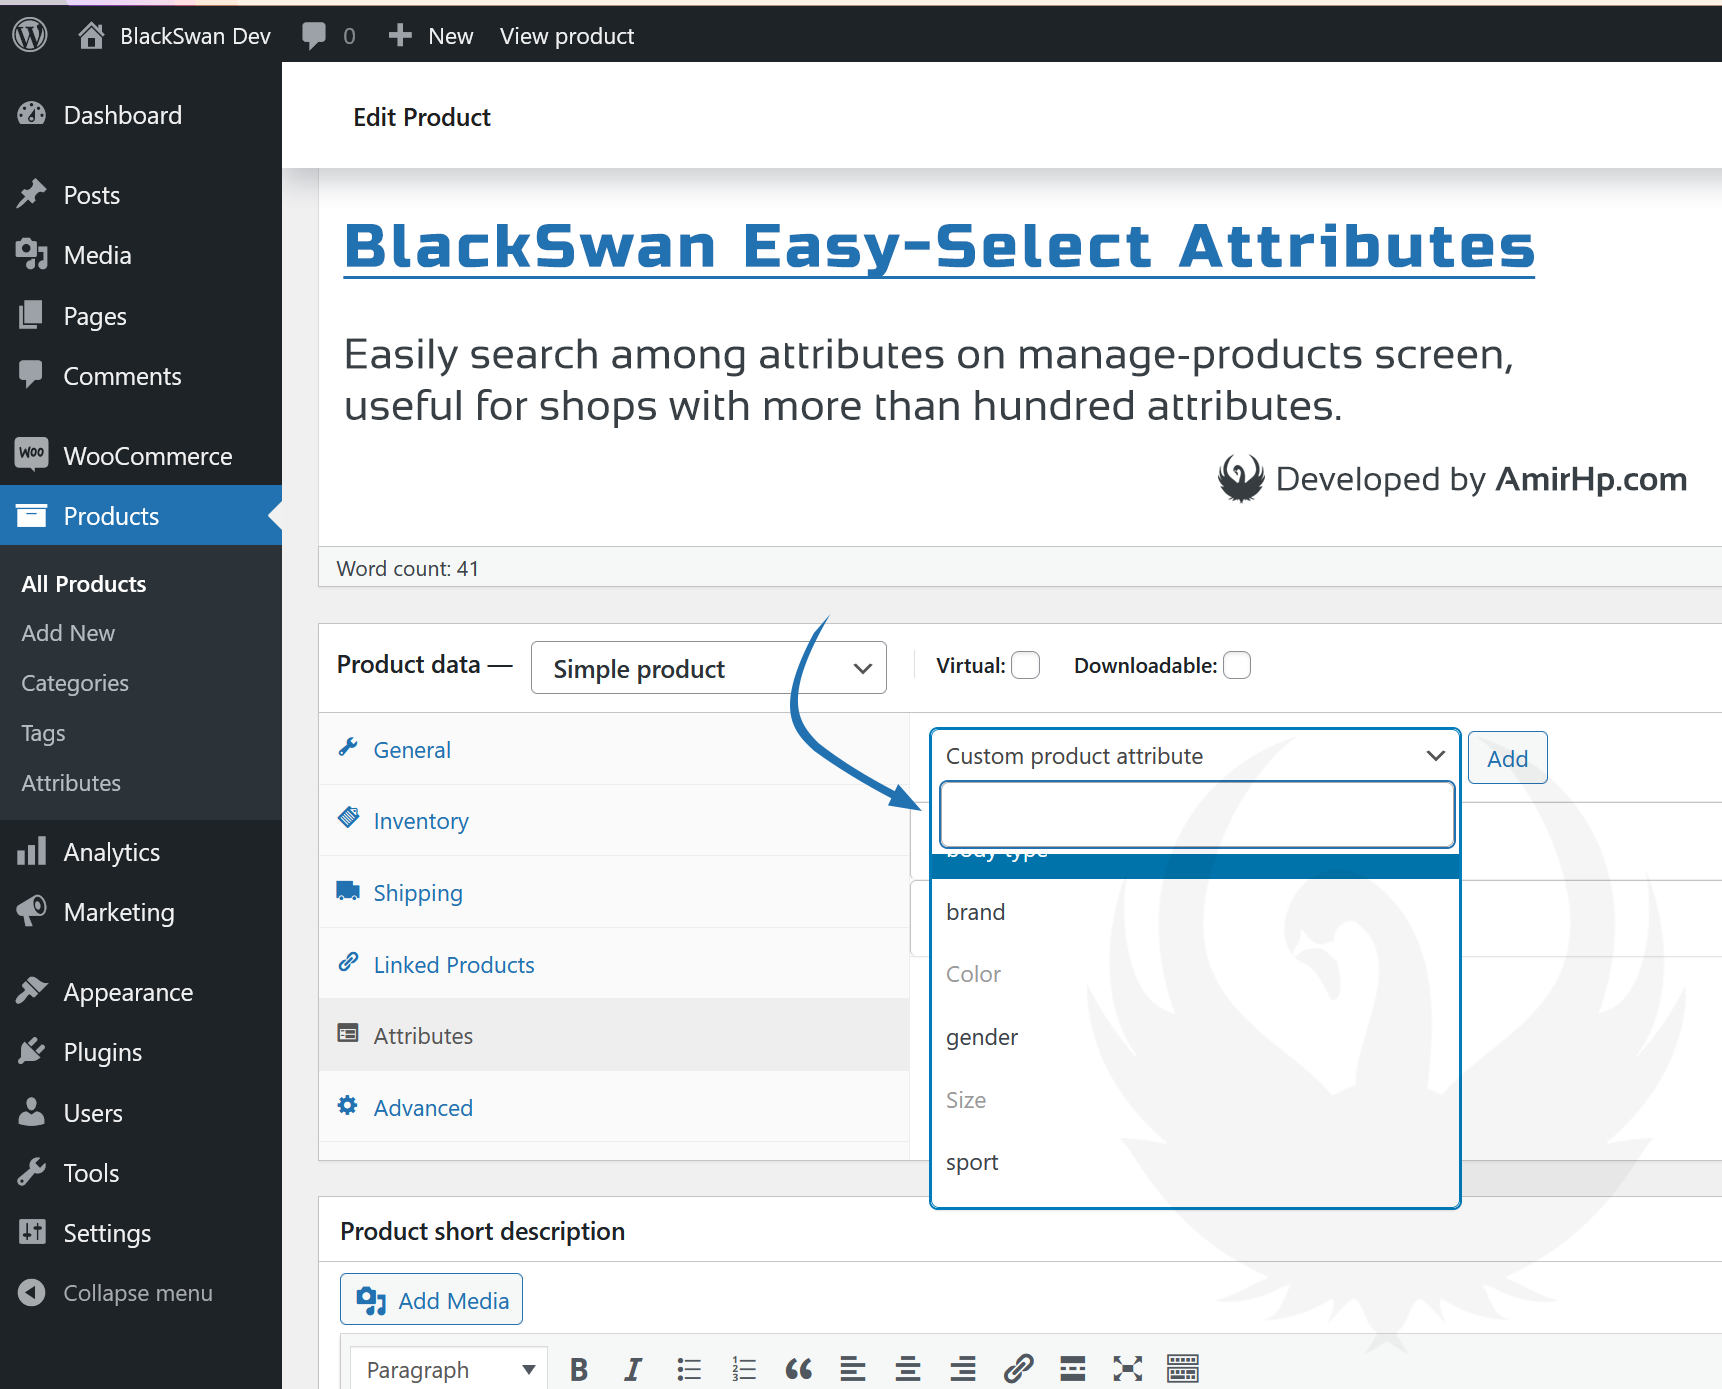
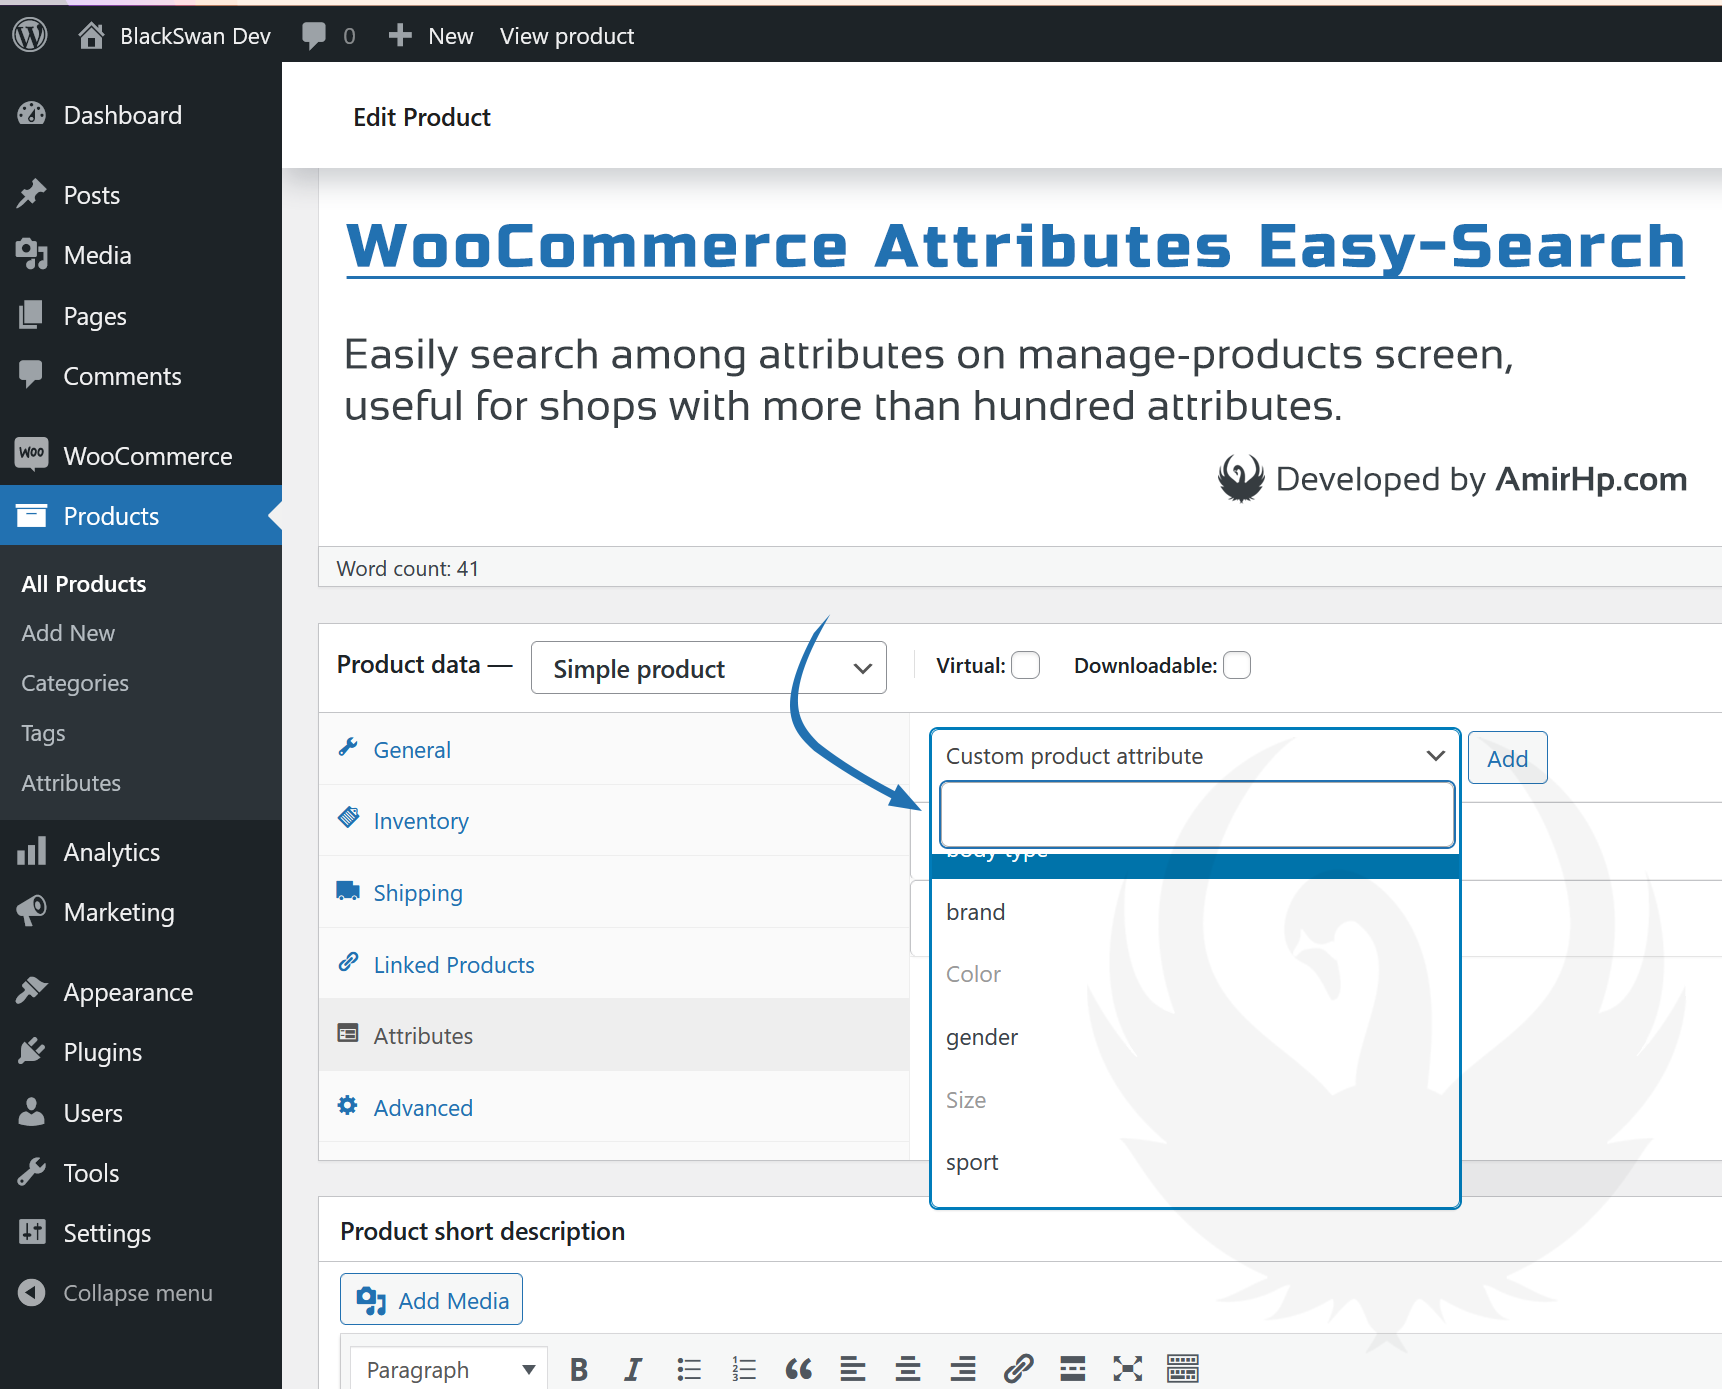
v.1 released

Changed region(s): [[0.1847, 0.1548, 0.9849, 0.2167]]

diff --git a/blackswan-easy-select-attributes.js b/blackswan-easy-select-attributes.js
@@ -2,12 +2,12 @@ jQuery.noConflict();
 (function($) {
   $(function() {
     const consloe = "color:cyan; background: #fff linear-gradient(to right, violet, cyan, lightgreen, yellow, orange, red); -webkit-background-clip: text; color: transparent;";
-    setTimeout(console.log.bind(console, `%cInitiating WooCommerce Attributes Easy-Search [developed by https://amirhp.com ]`, consloe));
+    setTimeout(console.log.bind(console, `%cInitiating BlackSwan Easy-Select Attributes for WooCommerce [developed by https://amirhp.com ]`, consloe));
     $("select.attribute_taxonomy[name=attribute_taxonomy]").selectWoo({width: '300px'}).addClass('enhanced');
     $(".product_attributes").on("click tap", ".remove_row", function () { initEasySearch(); });
     $(document.body).on("woocommerce_added_attribute", function(e){ initEasySearch(); });
     function initEasySearch() {
-      setTimeout(console.log.bind(console, `%cRe-initiating WooCommerce Attributes Easy-Search [developed by https://amirhp.com ]`, consloe));
+      setTimeout(console.log.bind(console, `%cRe-initiating BlackSwan Easy-Select Attributes for WooCommerce [developed by https://amirhp.com ]`, consloe));
       try { $("select.attribute_taxonomy[name=attribute_taxonomy]").selectWoo("destroy"); } catch (e) { }
       finally { $("select.attribute_taxonomy[name=attribute_taxonomy]").selectWoo({width: '300px'}).addClass('enhanced'); }
     }

diff --git a/blackswan-easy-select-attributes.php b/blackswan-easy-select-attributes.php
@@ -15,7 +15,7 @@ Tested up to: 6.0
 Requires at least: 5.0
 WC requires at least: 4.0
 WC tested up to: 6.6.1
-Text Domain: blackswan-woo-attr-select
+Text Domain: blackswan-woo-attributes-easy-select
 Domain Path: /languages
 Copyright: (c) amirhp.com, All rights reserved.
 License: GPLv2 or later
@@ -31,7 +31,7 @@ if (!class_exists("wc_attributes_easy_select")) {
     public $version = "1.0.0";
     public function __construct()
     {
-      load_plugin_textdomain("blackswan-woo-attr-select", false, dirname(plugin_basename(__FILE__))."/languages/");
+      load_plugin_textdomain("blackswan-woo-attributes-easy-select", false, dirname(plugin_basename(__FILE__))."/languages/");
       add_action("admin_enqueue_scripts", array($this, 'admin_enqueue_scripts'));
     }
     public function admin_enqueue_scripts($hook)

diff --git a/README.md b/README.md
@@ -1,7 +1,7 @@
 **BlackSwan Easy-Select Attributes for WooCommerce**
 ========================================
 
-Developed by [AmirHp.com](https://amirhp.com/) in [BlackSwan](https://blackswanlab.ir/) / View in WordPress.org
+Developed by [AmirHp.com](https://amirhp.com/) in [BlackSwan](https://blackswanlab.ir/) / [View in WordPress.org](https://wordpress.org/plugins/blackswan-woo-attributes-easy-select/)
 
 Easily search among attributes on WooCommerce manage-products screen, useful for shops with more than hundred attributes. Just install and head to add a new product or edit an existing one, then scroll to prodcut attributes and click on attributes drop down. Tada! use search bar to find your desired attribute.
 
